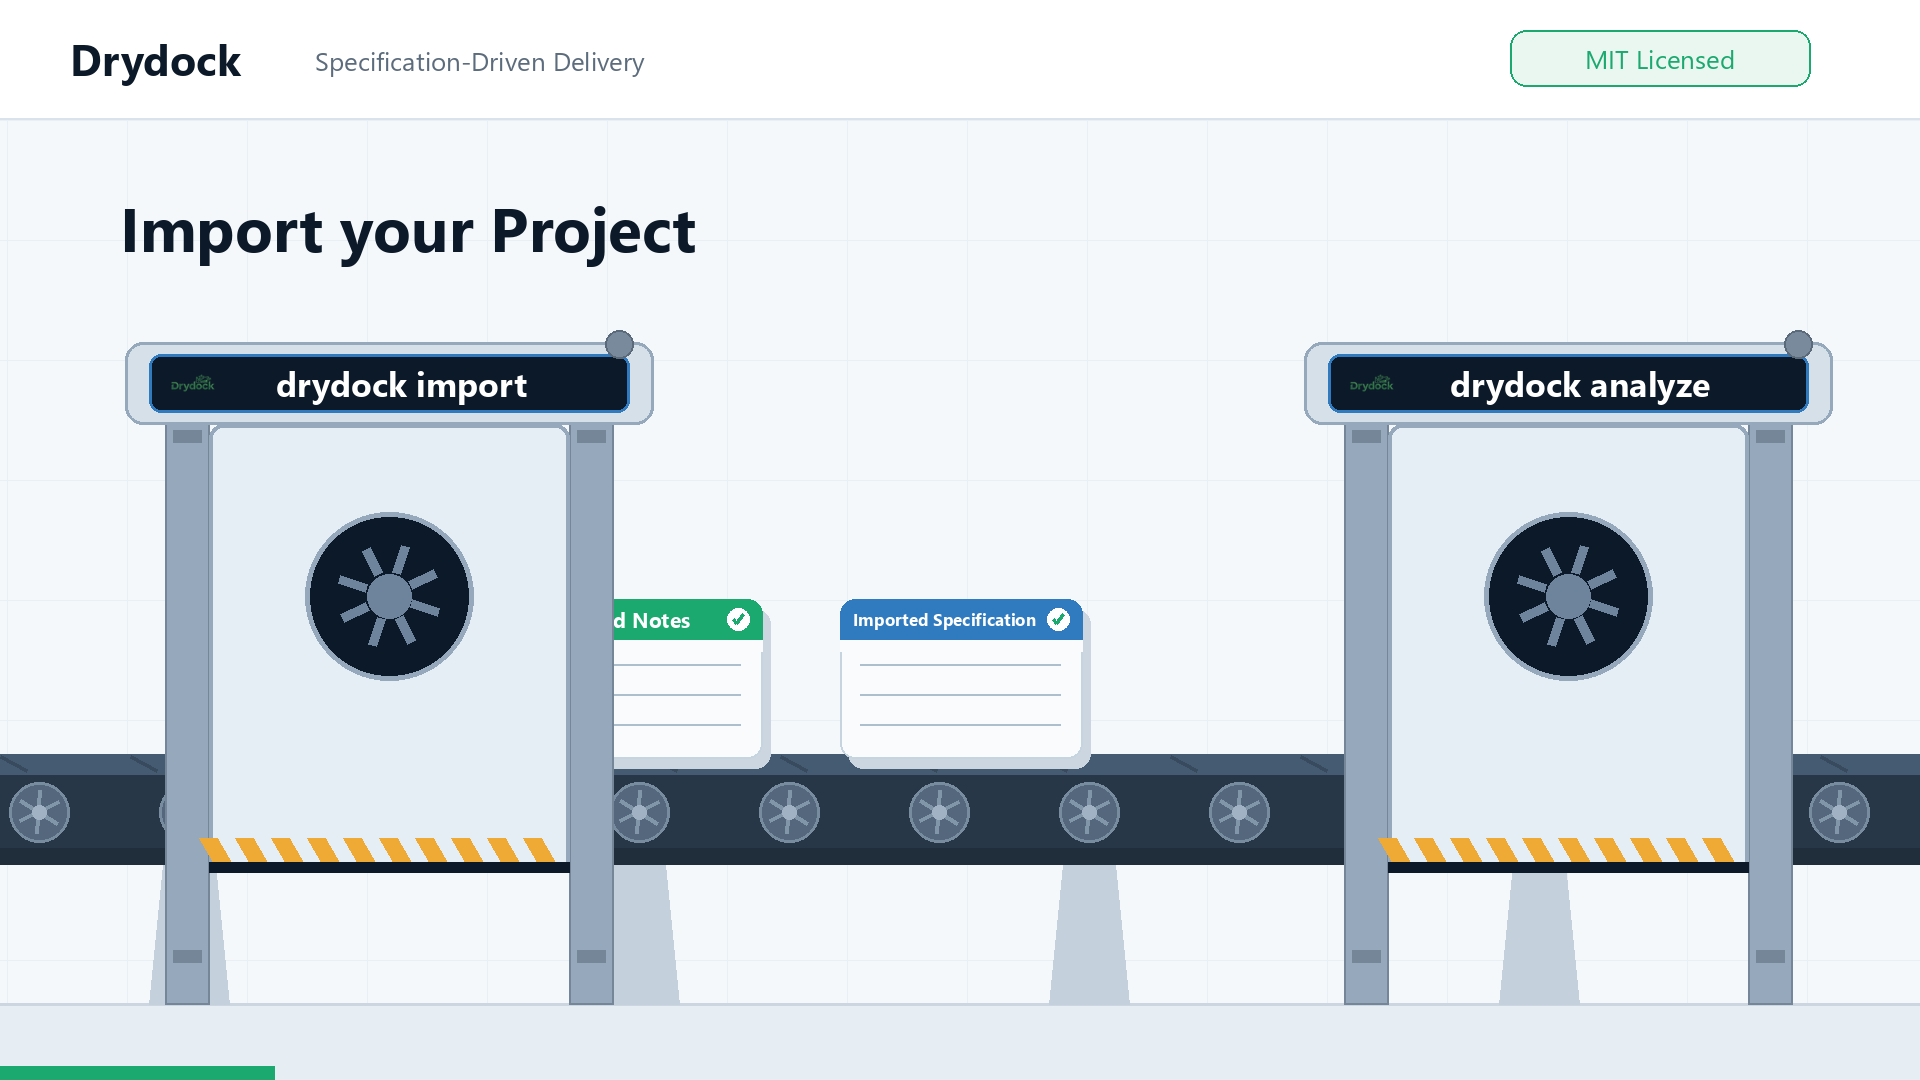
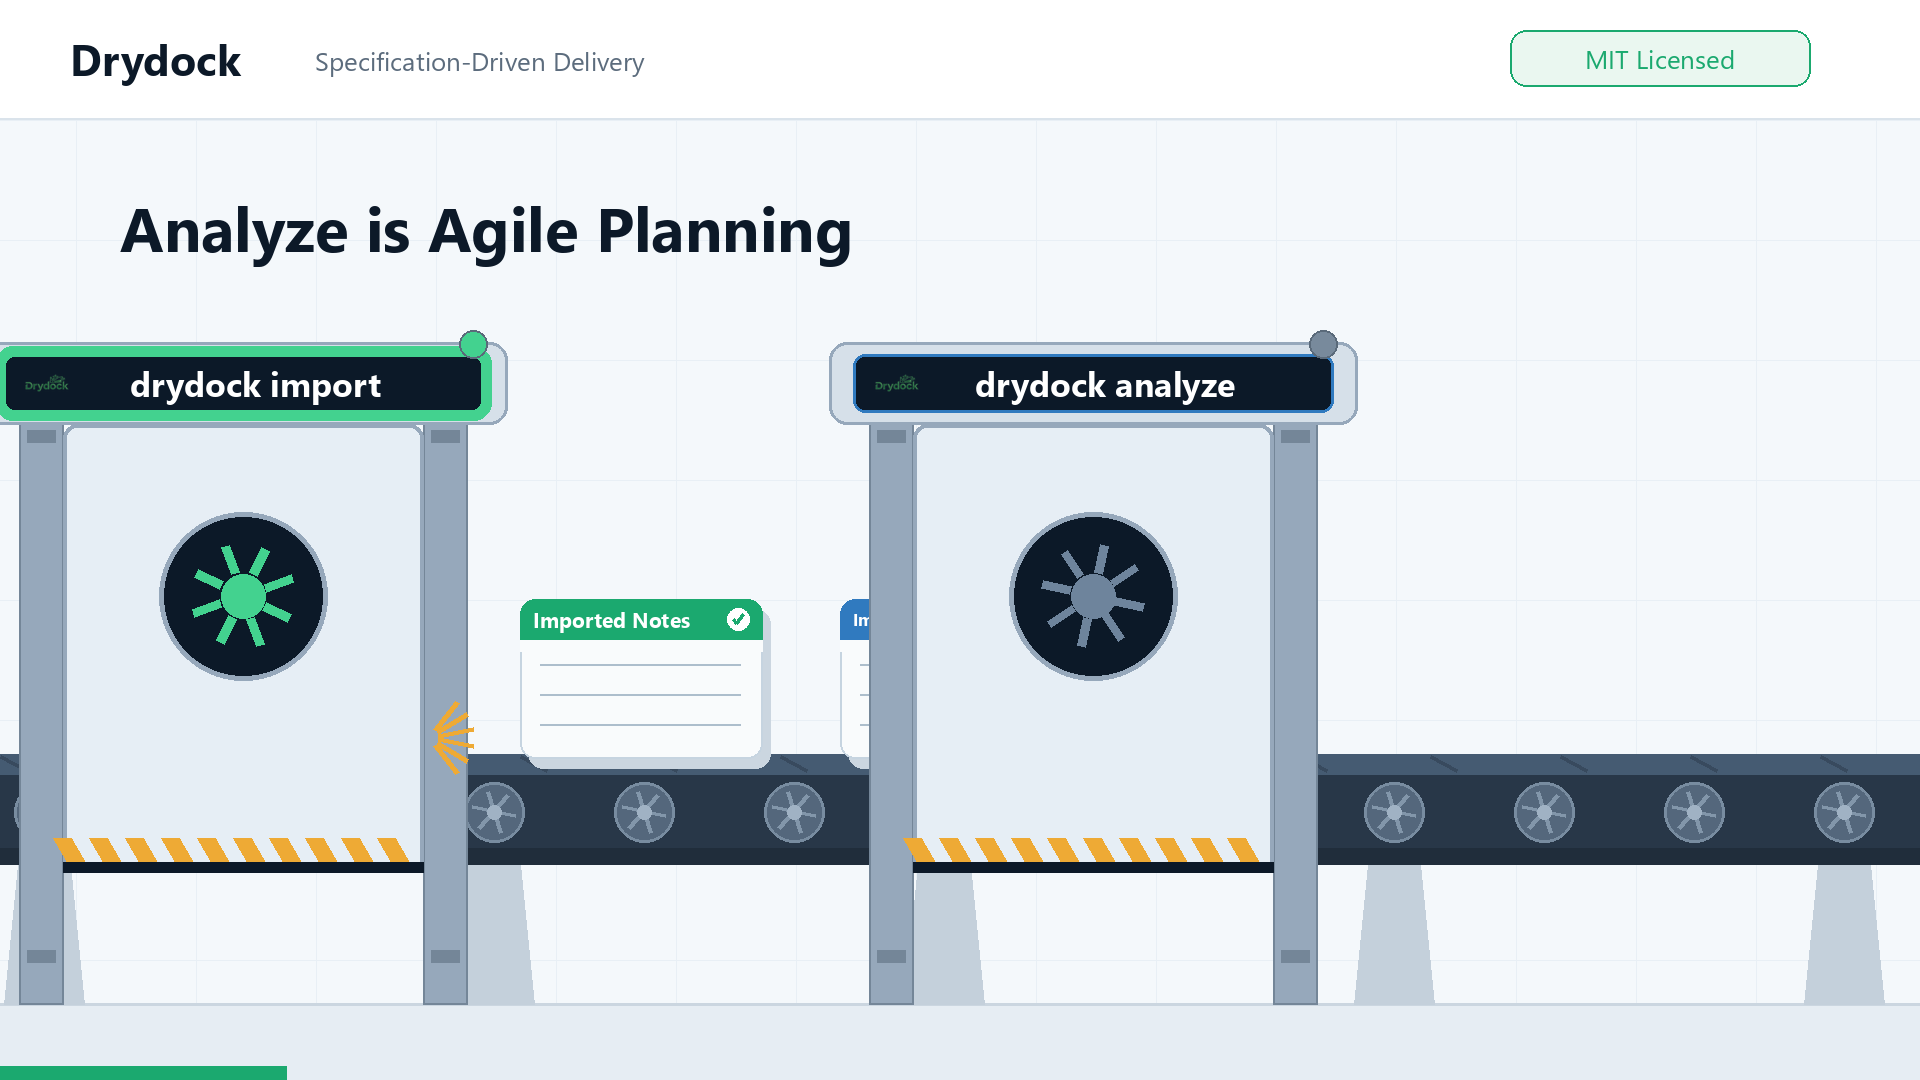
Add per-command timing offsets and rename QuarterDeck cards to Story
Introduce MARK_OFFSETS to nudge an individual beat earlier or later on top
of the narration marks (analyze -1.5, plan -5, manifest -3), moving each
machine with its headline and wall panel. Rename the QuarterDeck block
mini-cards from Blueprint to Story. Add docs/release-video/README.md
documenting the build commands and every edit knob.

Changed region(s): [[0.0, 0.3056, 1.0, 0.9472], [0.0625, 0.1833, 0.4688, 0.2444], [0.125, 0.9778, 0.1562, 1.0]]

diff --git a/docs/release-video/make_release_video.py b/docs/release-video/make_release_video.py
@@ -80,6 +80,15 @@ PARAGRAPH_GAP = 1.05
 CONVERT_OFFSET = 0.35
 RIDE_IN = 3.4
 
+# Per-command timing nudges (seconds), applied on top of the narration marks.
+# Negative moves a beat earlier ("back"); positive moves it later. Each nudge
+# moves that machine together with its headline and wall panel.
+MARK_OFFSETS = {
+    "analyze": -1.5,
+    "plan": -5.0,
+    "manifest": -3.0,
+}
+
 VOICE_FALLBACK = """Meet Drydock: a complete delivery system for specification-driven developers.
 
 Drydock works with larger specifications, including multi-file specs and imports from other tools.
@@ -232,6 +241,9 @@ class Timeline:
             for key, value in marks.items():
                 if key in mk and isinstance(value, (int, float)):
                     mk[key] = float(value)
+        for key, delta in MARK_OFFSETS.items():
+            if key in mk:
+                mk[key] += delta
         self.marks = mk
         mi, ma, mp = mk["import"], mk["analyze"], mk["plan"]
         mman, mqd = mk["manifest"], mk["quarterdeck"]
@@ -790,7 +802,7 @@ def block_tile(draw, x, y, label, color):
         draw.rounded_rectangle((mx, my, mx + 92, my + 96), 8, fill=PAPER, outline=LINE, width=2)
         draw.rectangle((mx, my, mx + 92, my + 22), fill=color)
         draw.text(
-            (mx + 46, my + 11), "Blueprint", font=font(13, True), fill=(255, 255, 255), anchor="mm"
+            (mx + 46, my + 11), "Story", font=font(13, True), fill=(255, 255, 255), anchor="mm"
         )
         for j, sec in enumerate(["Behavior", "Accepts", "Guards"]):
             draw.text(

diff --git a/docs/release-video/README.md b/docs/release-video/README.md
@@ -1,0 +1,78 @@
+# Editing the Drydock Release Video
+
+The video is generated by `make_release_video.py`. All timing follows the
+narration: voice synthesis records the moment each command is spoken to
+`audio/narration_marks.json`, and every machine, headline, and wall panel is
+anchored to those marks.
+
+## Build it
+
+Run from `docs/release-video/`:
+
+```bash
+uv run --python 3.12 --with edge-tts --with imageio-ffmpeg --with numpy --with pillow \
+  python make_release_video.py            # full pipeline -> renders/drydock-announcement-first-cut.mp4
+```
+
+Faster loops (same `uv run ...` prefix):
+
+```bash
+python make_release_video.py --stills     # only review PNGs in renders/stills/ (seconds)
+python make_release_video.py --no-voice   # full MP4 but reuse the existing voice + marks
+```
+
+Re-synthesize the voice (drops `--no-voice`) only when you change
+`voiceover_script.txt`. Editing constants or labels does not need new voice.
+
+## Move a machine earlier or later
+
+Edit `MARK_OFFSETS` near the top of `make_release_video.py`. Each entry nudges
+that beat — the machine, its headline, and its wall panel move together.
+
+```python
+MARK_OFFSETS = {
+    "analyze": -1.5,   # negative = earlier ("back"); positive = later
+    "plan": -5.0,
+    "manifest": -3.0,
+}
+```
+
+- Keys: `import`, `analyze`, `plan`, `manifest`, `quarterdeck`, `build`,
+  `refit`, `truths`, `cta`.
+- Units are seconds. `-4.0` moves that beat 4 seconds earlier; `+2.0` moves it
+  2 seconds later. Omit a key (or set `0.0`) to leave it on its spoken word.
+
+**Spacing limit.** A machine cannot be pulled so far that it lands on its
+neighbor. Two machines need about 2.4 s of separation or their gantries
+overlap on screen. The spoken gaps are roughly: import→analyze 5.4 s,
+analyze→plan 8.7 s, plan→build 32 s, build→refit 10.6 s. Pulling `analyze`
+back 4 s leaves only 1.4 s and it collides into `import`; about `-1.5` is the
+practical limit there.
+
+After editing, re-render:
+
+```bash
+uv run --python 3.12 --with edge-tts --with imageio-ffmpeg --with numpy --with pillow \
+  python make_release_video.py --stills --no-voice   # eyeball first
+```
+
+## Rename on-screen labels
+
+| Label | Where |
+|---|---|
+| QuarterDeck block cards ("Story") | `block_tile()` — the `draw.text(..., "Story", ...)` call |
+| QuarterDeck block names (Foundation, Persistence, …) | `draw_qd_panel()` — the `blocks = [...]` list |
+| Manifest panel cards (Stack, Rigging, Story 1–3) | `draw_manifest_panel()` |
+| Belt Blueprints card sections (Behavior/Acceptance/Guardrails) | `Timeline.__init__` — the Blueprints `card(...)` `sections=` list |
+| Section headlines ("Analyze is Agile Planning", …) | `Timeline.__init__` — the `self.scenes = [...]` list, 4th field per row |
+
+## Other tunables (top of the file)
+
+| Constant | Effect |
+|---|---|
+| `CONVERT_OFFSET` (0.35) | Seconds after the word that the machine finishes converting its lead card |
+| `RIDE_IN` (3.4) | Seconds an input rides the belt before it reaches its machine |
+| `SENTENCE_GAP` / `PARAGRAPH_GAP` | Silence inserted between sentences / paragraphs |
+| `V` (220) | Belt speed in px/s |
+
+Change what is said, or insert a `[pause 1.5]` line, in `voiceover_script.txt`.

diff --git a/docs/release-video/script.md b/docs/release-video/script.md
@@ -6,13 +6,13 @@ Tone: technical, energetic, professional, free-software announcement.
 
 ## Voiceover
 
-Meet Drydock: a complete delivery system for specification-driven developers.
+Meet Drydock: a complete delivery system for specification focused developers.
 
-Drydock works with larger specifications, including multi-file specs and material imported from other tools.
+Drydock works with larger specifications, including multi-file specifications and material imported from other tools.
 
-Start with `drydock import`: bring in specifications, notes, or existing project material.
+Start with `drydock import` to bring in specifications, notes, and other material.
 
-Run `drydock analyze`, and Drydock proposes an Agile plan with features, stories, questions, blockers, and acceptance criteria.
+`drydock analyze` performs Agile Story Planning and creates features, stories, questions, blockers, and acceptance criteria.
 
 Run `drydock plan`, and your specifications become governed Blueprints. Each Blueprint carries Test-Driven Development tests. Plan also builds the Manifest: a graph of stories, dependencies, stack rules, and build order.
 
@@ -26,8 +26,8 @@ Agile software never stops changing. Update the specification or add change tick
 
 Drydock is built on simple engineering truths: engineers decompose big problems; Agile and Test-Driven Development are proven practices; and a graph plus context compression makes specification-driven builds reproducible with your Sonnet or Codex subscription.
 
-Drydock is free, MIT-licensed software, now in stable alpha.
+Drydock is free MIT-licensed software, now in stable alpha.
 
-Take it for a sail. Contributors wanted.
+Take it for a sail. 
 
-WebCloudStudio.com.
+For more Information - WebCloudStudio.com.
